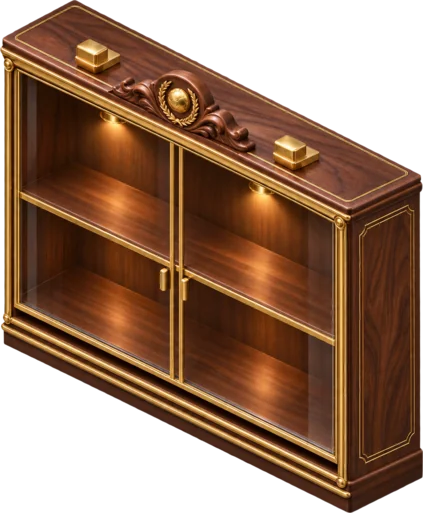
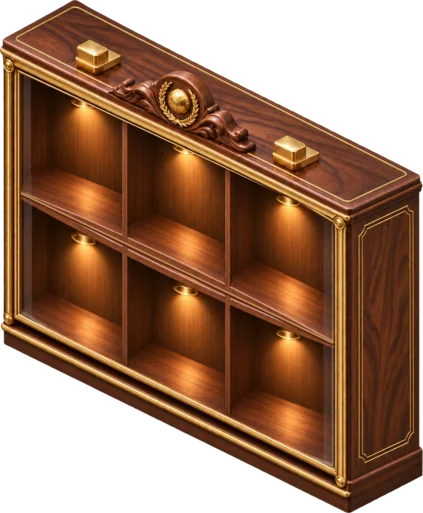
Hall of Fame: six-cell cabinet sprite, items centred in its cells

diff --git a/frontend/src/lib/hall.ts b/frontend/src/lib/hall.ts
@@ -98,7 +98,8 @@ export const FRAMES = FRAME_XS.map((x) => {
 /* Cabinet against the right wall, standing on the floor: its front-left
  * bottom corner (64, 345) placed 1 depth in front of the wall base. */
 export const CABINET = place(BOX.cabinet, 0.4, [64, 345], [180, 206]);
-const CAB_COLS_PX = [135, 235, 335];
+/** Cell centres along the front: partitions at x 186 and 289 split 83…396. */
+const CAB_COLS_PX = [134, 237, 340];
 /** Where a cabinet cell's item stands: three per shelf, two shelves. */
 export function cabinetSlot(i: number): Pt {
   const x = CAB_COLS_PX[i % 3];
